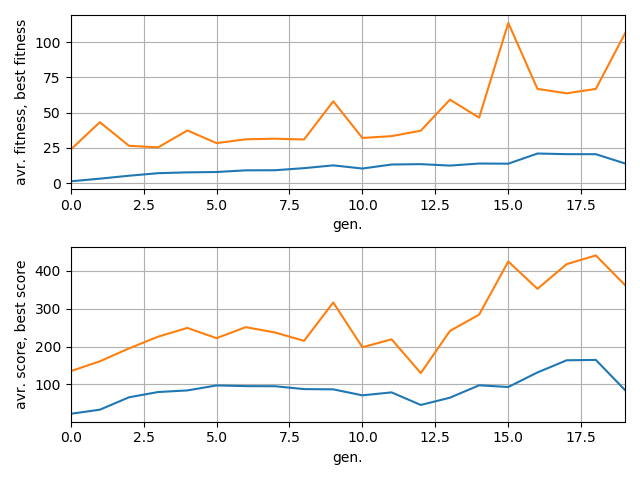
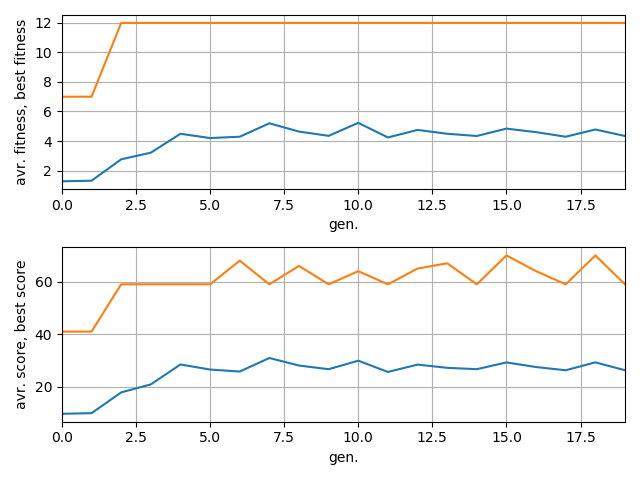
[add] more checkpionts, make the scoring of checkpionts automated

diff --git a/tryPyGlet.py b/tryPyGlet.py
@@ -7,14 +7,9 @@ from checkpiont import *
 import copy
 import random as r
 
-window = pyglet.window.Window(width=1300, height=820)
-pyglet.vsync = True
-label = pyglet.text.Label("gen: 0, players: 100", font_name="Comic Sans", font_size=25,
-x=window.width/2, y=window.height-25,
-anchor_x="center", anchor_y="center"
-)
 
-# globals
+WIDTH = 1300
+HEIGHT = 820
 
 gen = 0
 
@@ -33,42 +28,81 @@ graph_cycles = 20
 checkpoints = []
 walls = []
 
+
+window = pyglet.window.Window(width=WIDTH, height=HEIGHT)
+pyglet.vsync = True
+label = pyglet.text.Label("gen: 0, players: 100", font_name="Comic Sans", font_size=25,
+x=WIDTH/2, y=HEIGHT-25,
+anchor_x="center", anchor_y="center"
+)
+
+# globals
+
+
 # make all the walls of the game
 
-walls.append(Wall([1, 0], [1, window.height]))
-walls.append(Wall([window.width, 0], [window.width, window.height]))
-walls.append(Wall([1, window.height-1], [window.width, window.height-1]))
-walls.append(Wall([1, 1], [window.width, 1]))
-walls.append(Wall( [window.width/2-300, window.height/2-200], [window.width/2+300, window.height/2-200] ))
-walls.append(Wall( [window.width/2-300, window.height/2-200], [window.width/2-400, window.height/2-100] ))
-walls.append(Wall( [window.width/2-400, window.height/2+100], [window.width/2-400, window.height/2-100] ))
-walls.append(Wall( [window.width/2-200, window.height/2], [window.width/2+300, window.height/2] ))
-walls.append(Wall( [window.width/2-200, window.height/2], [window.width/2+300, window.height/2] ))
-walls.append(Wall( [window.width/2-200, window.height/2], [window.width/2-200, window.height/2 + 100] ))
-walls.append(Wall( [window.width/2, window.height/2 + 100], [window.width/2-200, window.height/2 + 100] ))
-walls.append(Wall( [window.width/2-400, window.height/2 + 100], [window.width/2-300, window.height/2 + 220] ))
-walls.append(Wall( [window.width/2-100, window.height/2 + 220], [window.width/2-300, window.height/2 + 220] ))
-walls.append(Wall( [window.width/2, window.height/2 + 100], [window.width/2+100, window.height/2 + 200] ))
-walls.append(Wall( [window.width/2 + 100, window.height/2 + 360], [window.width/2+100, window.height/2 + 200] ))
-walls.append(Wall( [window.width/2+600, window.height/2-100], [window.width/2+300, window.height/2] ))
-walls.append(Wall( [window.width/2 + 100, window.height/2 + 360], [window.width/2-500, window.height/2 + 360] ))
-walls.append(Wall( [window.width/2 - 600, window.height/2 + 260], [window.width/2-500, window.height/2 + 360] ))
-walls.append(Wall( [window.width/2 - 600, window.height/2 + 260], [window.width/2-600, window.height/2 - 360] ))
-walls.append(Wall( [window.width/2+600, window.height/2-100], [window.width/2+600, window.height/2 - 360] ))
-walls.append(Wall( [window.width/2-600, window.height/2-360], [window.width/2+600, window.height/2 - 360] ))
+walls.append(Wall([1, 0], [1, HEIGHT]))
+walls.append(Wall([WIDTH, 0], [WIDTH, HEIGHT]))
+walls.append(Wall([1, HEIGHT-1], [WIDTH, HEIGHT-1]))
+walls.append(Wall([1, 1], [WIDTH, 1]))
+walls.append(Wall( [WIDTH/2-300, HEIGHT/2-200], [WIDTH/2+300, HEIGHT/2-200] ))
+walls.append(Wall( [WIDTH/2-300, HEIGHT/2-200], [WIDTH/2-400, HEIGHT/2-100] ))
+walls.append(Wall( [WIDTH/2-400, HEIGHT/2+100], [WIDTH/2-400, HEIGHT/2-100] ))
+walls.append(Wall( [WIDTH/2-200, HEIGHT/2], [WIDTH/2+300, HEIGHT/2] ))
+walls.append(Wall( [WIDTH/2-200, HEIGHT/2], [WIDTH/2+300, HEIGHT/2] ))
+walls.append(Wall( [WIDTH/2-200, HEIGHT/2], [WIDTH/2-200, HEIGHT/2 + 100] ))
+walls.append(Wall( [WIDTH/2, HEIGHT/2 + 100], [WIDTH/2-200, HEIGHT/2 + 100] ))
+walls.append(Wall( [WIDTH/2-400, HEIGHT/2 + 100], [WIDTH/2-300, HEIGHT/2 + 220] ))
+walls.append(Wall( [WIDTH/2-100, HEIGHT/2 + 220], [WIDTH/2-300, HEIGHT/2 + 220] ))
+walls.append(Wall( [WIDTH/2, HEIGHT/2 + 100], [WIDTH/2+100, HEIGHT/2 + 200] ))
+walls.append(Wall( [WIDTH/2 + 100, HEIGHT/2 + 360], [WIDTH/2+100, HEIGHT/2 + 200] ))
+walls.append(Wall( [WIDTH/2+600, HEIGHT/2-100], [WIDTH/2+300, HEIGHT/2] ))
+walls.append(Wall( [WIDTH/2 + 100, HEIGHT/2 + 360], [WIDTH/2-500, HEIGHT/2 + 360] ))
+walls.append(Wall( [WIDTH/2 - 600, HEIGHT/2 + 260], [WIDTH/2-500, HEIGHT/2 + 360] ))
+walls.append(Wall( [WIDTH/2 - 600, HEIGHT/2 + 260], [WIDTH/2-600, HEIGHT/2 - 360] ))
+walls.append(Wall( [WIDTH/2+600, HEIGHT/2-100], [WIDTH/2+600, HEIGHT/2 - 360] ))
+walls.append(Wall( [WIDTH/2-600, HEIGHT/2-360], [WIDTH/2+600, HEIGHT/2 - 360] ))
 
 # make checkpoints
+checkpoints_points = []
 
-checkpoints.append(Checkpoint([window.width/2+300, window.height/2-200], [window.width/2+300, window.height/2], 2))
-checkpoints.append(Checkpoint([window.width/2+300, window.height/2-200], [window.width/2+600, window.height/2-200], 3))
-checkpoints.append(Checkpoint([window.width/2+300, window.height/2-200], [window.width/2+300, window.height/2-360], 4))
-checkpoints.append(Checkpoint([window.width/2, window.height/2-200], [window.width/2, window.height/2-360], 5))
-checkpoints.append(Checkpoint([window.width/2-300, window.height/2-200], [window.width/2-300, window.height/2-360], 5))
+#first corner
+checkpoints_points.append([[WIDTH/2+300, HEIGHT/2-200], [WIDTH/2+300, HEIGHT/2]])
+checkpoints_points.append([[WIDTH/2+300, HEIGHT/2-200], [WIDTH/2+600, HEIGHT/2-200]])
+checkpoints_points.append([[WIDTH/2+300, HEIGHT/2-200], [WIDTH/2+300, HEIGHT/2-360]])
+#first long
+checkpoints_points.append([[WIDTH/2+150, HEIGHT/2-200], [WIDTH/2+150, HEIGHT/2-360]])
+checkpoints_points.append([[WIDTH/2, HEIGHT/2-200], [WIDTH/2, HEIGHT/2-360]])
+checkpoints_points.append([[WIDTH/2-150, HEIGHT/2-200], [WIDTH/2-150, HEIGHT/2-360]])
+checkpoints_points.append([[WIDTH/2-300, HEIGHT/2-200], [WIDTH/2-300, HEIGHT/2-360]])
+#second corner
+checkpoints_points.append([[WIDTH/2-350, HEIGHT/2-150], [WIDTH/2-600, HEIGHT/2-360]])
+checkpoints_points.append([[WIDTH/2-375, HEIGHT/2-125], [WIDTH/2-600, HEIGHT/2-230]])
+checkpoints_points.append([[WIDTH/2-400, HEIGHT/2-100], [WIDTH/2-600, HEIGHT/2-100]])
+#second long
+checkpoints_points.append([[WIDTH/2-400, HEIGHT/2-50], [WIDTH/2-600, HEIGHT/2-50]])
+checkpoints_points.append([[WIDTH/2-400, HEIGHT/2], [WIDTH/2-600, HEIGHT/2]])
+checkpoints_points.append([[WIDTH/2-400, HEIGHT/2+50], [WIDTH/2-600, HEIGHT/2+50]])
+checkpoints_points.append([[WIDTH/2-400, HEIGHT/2+100], [WIDTH/2-600, HEIGHT/2+100]])
+#third corner
+checkpoints_points.append([[WIDTH/2-350, HEIGHT/2+160], [WIDTH/2-550, HEIGHT/2+310]])
+checkpoints_points.append([[WIDTH/2-300, HEIGHT/2+220], [WIDTH/2-300, HEIGHT/2+360]])
+#third long
+checkpoints_points.append([[WIDTH/2-100, HEIGHT/2+220], [WIDTH/2-100, HEIGHT/2+360]])
+# fourth corner
+checkpoints_points.append([[WIDTH/2-100, HEIGHT/2+220], [WIDTH/2+100, HEIGHT/2+360]])
+checkpoints_points.append([[WIDTH/2-100, HEIGHT/2+220], [WIDTH/2+100, HEIGHT/2+220]])
+checkpoints_points.append([[WIDTH/2-100, HEIGHT/2+220], [WIDTH/2, HEIGHT/2+100]])
+checkpoints_points.append([[WIDTH/2-100, HEIGHT/2+220], [WIDTH/2-100, HEIGHT/2+100]])
+
+
+for i in range(len(checkpoints_points)):
+    checkpoints.append(Checkpoint(checkpoints_points[i][0], checkpoints_points[i][1], i+2))
 
 
 # greate first players
 for i in range(am_of_players):
-    players.append(Player([window.width/2, window.height/2-100], amount_of_rays, False))
+    players.append(Player([WIDTH/2, HEIGHT/2-100], amount_of_rays, False))
 
 
 def draw_line(xy1, xy2, color):
@@ -80,7 +114,7 @@ def draw_line(xy1, xy2, color):
 
 def reset_players(players):
     for p in players:
-        p.pos = [window.width/2, window.height/2-100]
+        p.pos = [WIDTH/2, HEIGHT/2-100]
         p.rot = 0
         p.dead = False
 
@@ -139,24 +173,24 @@ def repopulate(players):
 
     new_players = []
 
-    bP = Player([window.width/2, window.height/2-100], amount_of_rays, False)
+    bP = Player([WIDTH/2, HEIGHT/2-100], amount_of_rays, False)
     bP.net = copy.deepcopy(best_player.net)
 
     new_players.append(bP)
 
-    for i in range(int((len(players) - 1)/3)):
+    for i in range(int(mth.ceil((len(players) - 1)*6/8))):
         p = pick_player(players)
-        p.net.randomize_net(1)
+        p.net.randomize_net(.1)
         p.dead = False
         new_players.append(p)
-    for i in range(int(mth.ceil((len(players) - 1)/3))):
-        p1 = pick_player(players)
-        p2 = pick_player(players)
-        p3 = cross_players(p1, p2)
-        p3.dead = False
-        new_players.append(p3)
-    for i in range(int((len(players) - 1)/3)):
-        new_players.append(Player([window.width/2, window.height/2-100], amount_of_rays, False))
+    # for i in range(int(((len(players) - 1)/8)):
+    #     p1 = pick_player(players)
+    #     p2 = pick_player(players)
+    #     p3 = cross_players(p1, p2)
+    #     p3.dead = False
+    #     new_players.append(p3)
+    for i in range(int((len(players) - 1)*2/8)):
+        new_players.append(Player([WIDTH/2, HEIGHT/2-100], amount_of_rays, False))
         
     players = []
     players = new_players
@@ -165,19 +199,19 @@ def repopulate(players):
 
 def pick_player(players):
     index = 0
-    rand = r.random() * am_of_players
+    rand = r.random()
     while rand > 0:
         rand -= players[index].fitness
         index += 1
     index -= 1
-    child = Player([window.width/2, window.height/2-100], amount_of_rays, False)
+    child = Player([WIDTH/2, HEIGHT/2-100], amount_of_rays, False)
     child.net = copy.deepcopy(players[index].net)
     return child
 
 
 def cross_players(p1, p2):
     # make child with net of first parrent
-    child = Player([window.width/2, window.height/2-100], amount_of_rays, False)
+    child = Player([WIDTH/2, HEIGHT/2-100], amount_of_rays, False)
     child.net = copy.deepcopy(p1.net)
     for i in range(len(child.net.nodes)):
         if not i == 0:
@@ -195,9 +229,10 @@ def calculate_fitness(players):
     for p in players:
         sum += p.score
     for p in players:
-        p.fitness = (mth.pow(p.check_piont, 2) * p.score / sum) * am_of_players
-        # p.fitness = (mth.pow(p.check_piont, 2) * p.score)
-        # p.fitness = p.score / sum
+        p.fitness = p.check_piont
+        #(((mth.pow(p.check_piont, 3) * p.score) - p.rot/360) / sum) * am_of_players
+        #(mth.pow(p.check_piont, 2) * p.score)
+        #p.score / sum
 
 
 @window.event
@@ -214,6 +249,9 @@ def on_draw():
         draw_line(w.start_pos, w.end_pos, w.color)
     for ch in checkpoints:
         draw_line(ch.start_pos, ch.end_pos, ch.color)
+    # else:
+    #     window.clear()
+    #     label.draw()
     
 
 def update(delta_time):
@@ -230,6 +268,7 @@ def update(delta_time):
 
             # plot of fitness and score
             fig, axs = plt.subplots(2, 1)
+            fig.max_open_warning = 500
             axs[0].plot(gen_table, avr_fitness_table, gen_table, best_fitness_table)
             axs[0].set_xlim(0, len(gen_table)-1)
             axs[0].set_xlabel('gen.')
@@ -253,9 +292,9 @@ def update(delta_time):
             if not p.dead:
                 p.cast_rays(walls)
                 p.set_net_input()
-                p.move(delta_time)
+                p.move(.2)
                 p.check_for_hit(walls, checkpoints)
-                p.out_off_bounds(window.width, window.height)
+                p.out_off_bounds(WIDTH, HEIGHT)
                 
     
                 

diff --git a/player.py b/player.py
@@ -9,7 +9,7 @@ class Player:
     def __init__(self, pos, amount_of_rays, selected):
         # variables for player
             # network
-        self.net = Network([amount_of_rays, 5, 2])
+        self.net = Network([amount_of_rays, 2, 3])
         self.net_input = []
         self.amount_of_rays = amount_of_rays
         self.score = 0
@@ -52,8 +52,10 @@ class Player:
         net_out = self.net.run(True)
         if net_out[1] == 0:
             self.rot += net_out[0] * self.rot_speed * delta_time
-        else:
+        elif net_out[1] == 1:
             self.rot -= net_out[0] * self.rot_speed * delta_time
+        elif net_out[0] == 2:
+            pass
         self.sprite.rotation = -self.rot
         self.accel[0] = mth.cos(mth.radians(self.rot))
         self.accel[1] = mth.sin(mth.radians(self.rot))

diff --git a/network.py b/network.py
@@ -116,5 +116,6 @@ class Network:
             else:
                 for j in range(len(self.nodes[i])):
                     for w in self.nodes[i][j].weights:
-                        w += r.randrange(-1, 2) * r.random() * multiplier
-                    self.nodes[i][j].bias += r.randrange(-1, 2) * r.random() * multiplier
+                        if r.random() < multiplier:
+                            w += r.random() * r.randint(-1, 1)
+                    self.nodes[i][j].bias += r.randint(-1, 1) * r.random()
